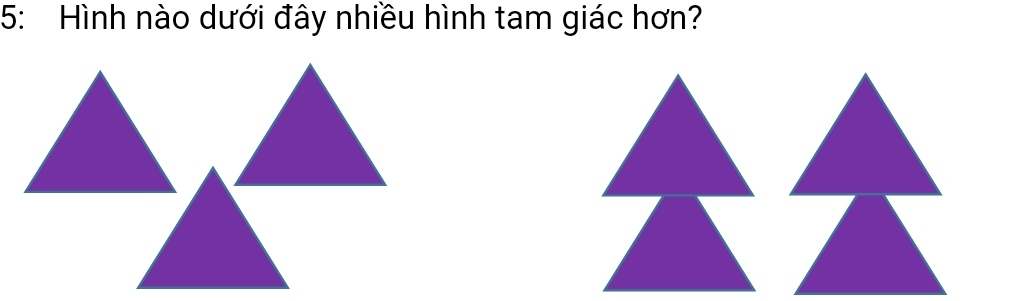
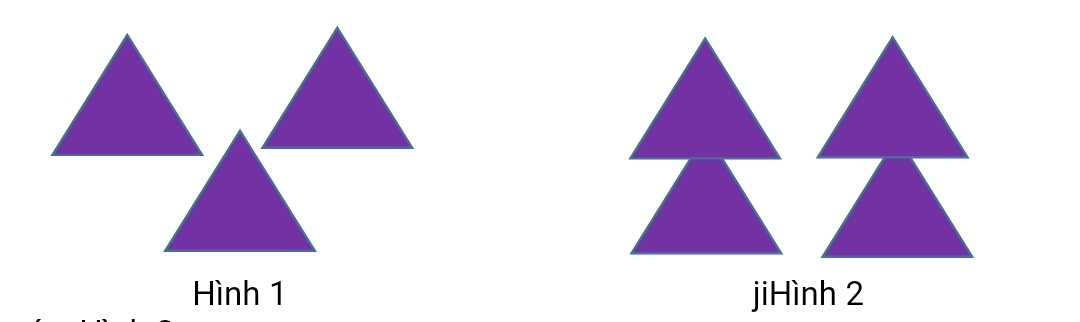
.

Changed region(s): [[0.0, 0.0, 0.9515, 0.9867], [0.0307, 0.9867, 0.1535, 1.0], [0.0, 0.0, 0.0307, 0.0897]]

diff --git a/config/index.js b/config/index.js
@@ -33,7 +33,7 @@ module.exports = {
     // https://vue-loader.vuejs.org/en/options.html#cachebusting
     cacheBusting: true,
 
-    cssSourceMap: true
+    cssSourceMap: false
   },
 
   build: {
@@ -49,7 +49,7 @@ module.exports = {
      * Source Maps
      */
 
-    productionSourceMap: true,
+    productionSourceMap: false,
     // https://webpack.js.org/configuration/devtool/#production
     devtool: '#source-map',
 

diff --git a/server/data/class-1/Class-1_T1.js b/server/data/class-1/Class-1_T1.js
@@ -53,7 +53,6 @@ div.d-flex.align-items-center.justify-content-between
 p.grey--text.text--darken-2 Hình nào có nhiều hình tam giác hơn?
 div.d-flex.align-items-center.justify-content-between
   img(src="${process.env.baseURL}/api/resources/assets/class-1/t1/5/1.png")
-  img(src="${process.env.baseURL}/api/resources/assets/class-1/t1/5/2.png")
     `,
       items: ["Hình 1", "Hình 2"],
       answer: 1

diff --git a/src/plugins/router/index.js b/src/plugins/router/index.js
@@ -41,6 +41,10 @@ const routes = [
     meta: {
       isChallenges: true
     }
+  },
+  {
+    path: "*",
+    redirect: "/"
   }
 ]
 
